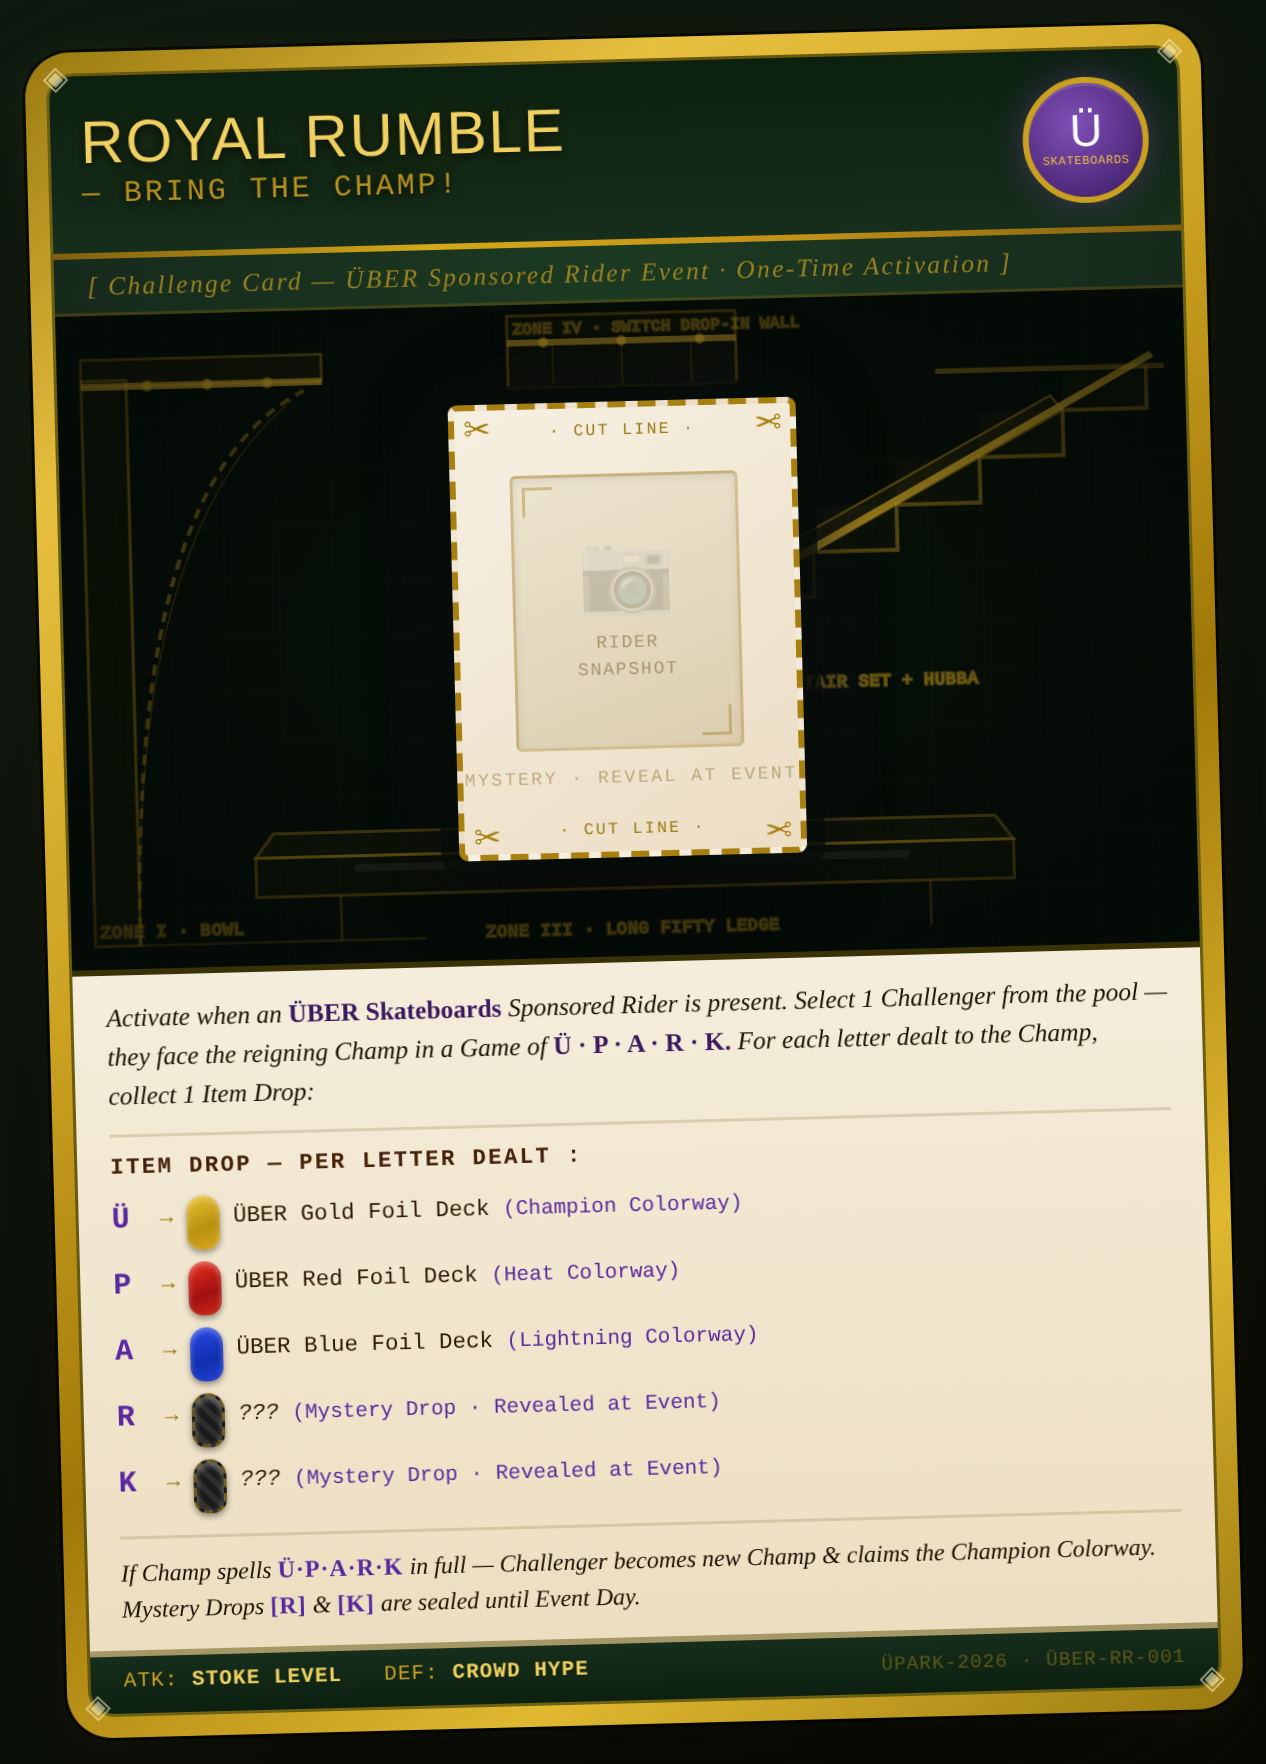
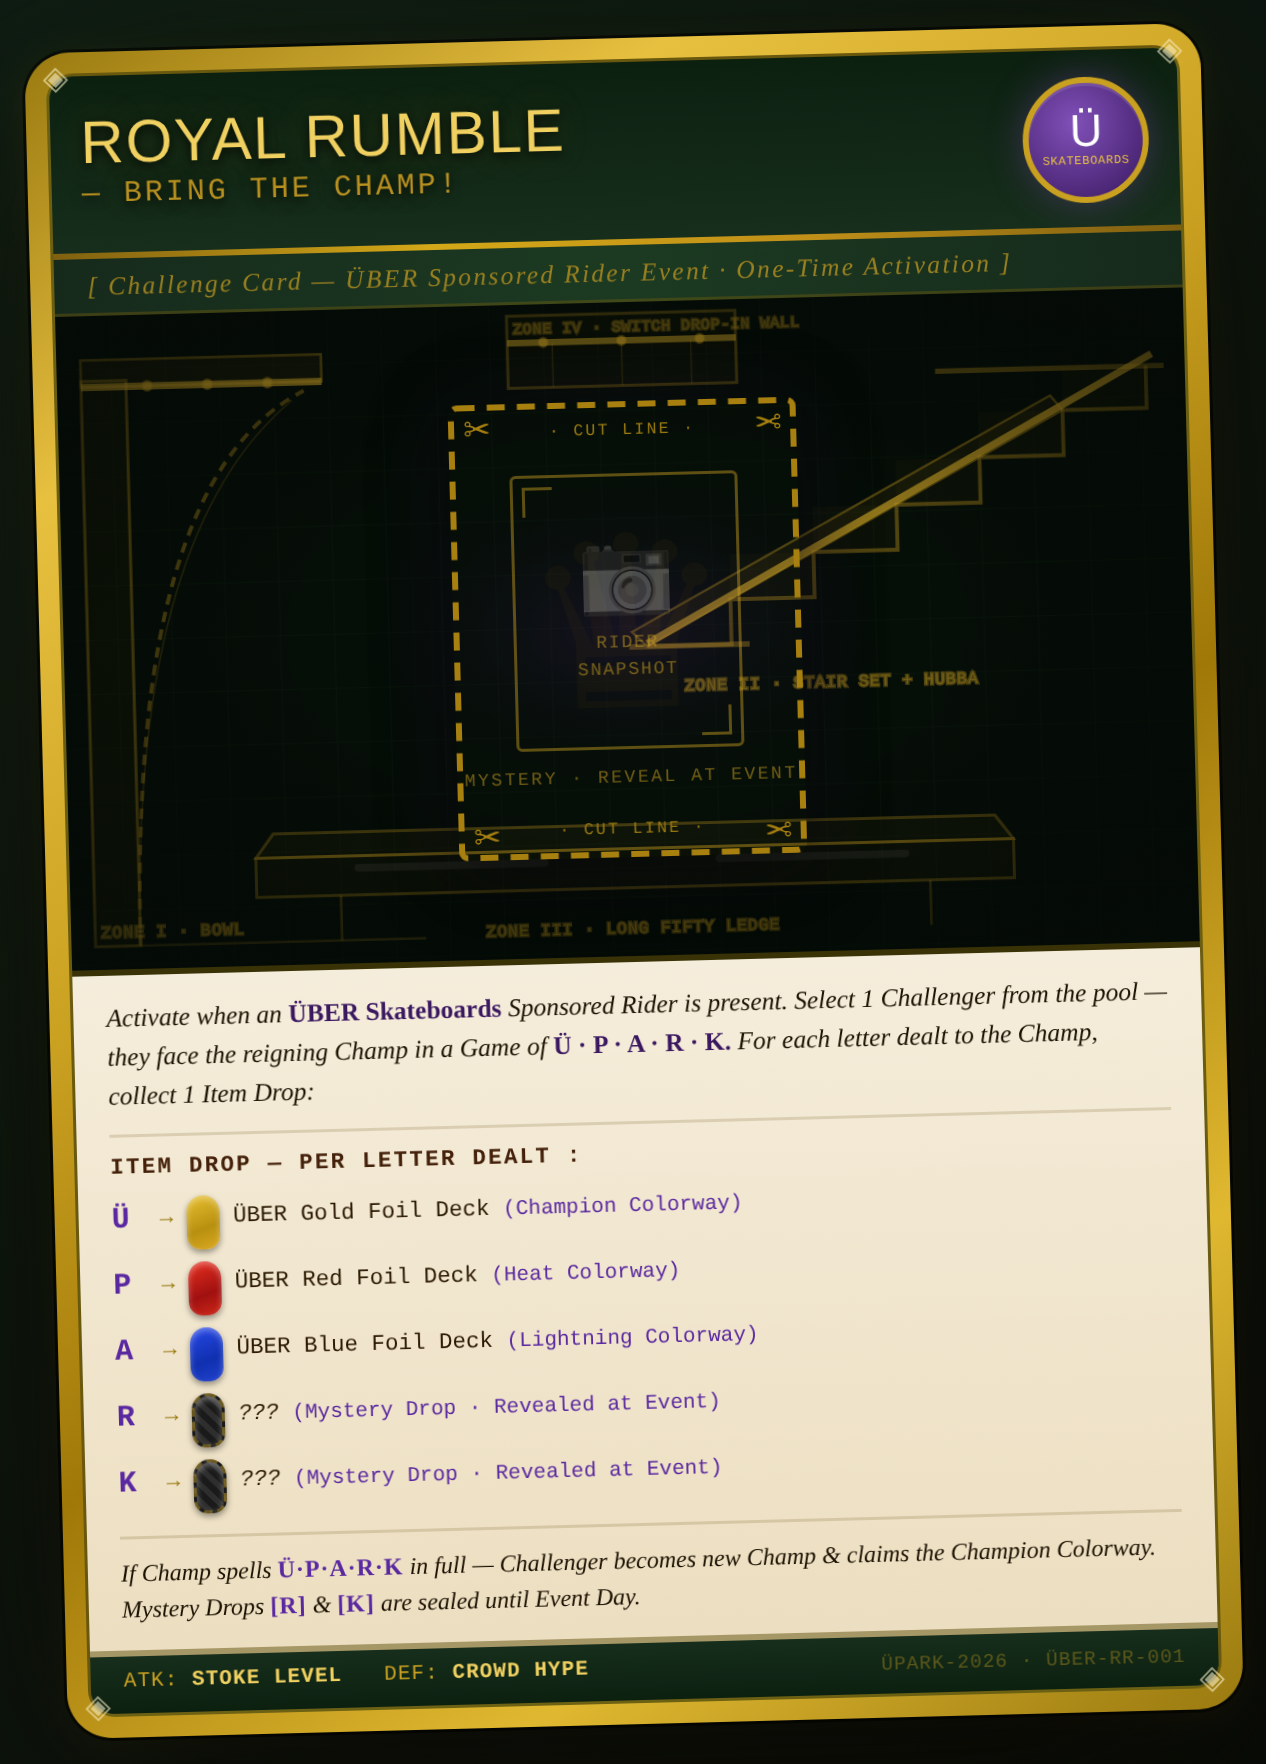
Make cutout frame transparent — park SVG shows through rider slot
Cutout box and photo frame backgrounds set to transparent.
Text/border colors updated to gold so they read on the dark blueprint.
Both PNG exports regenerated.

Changed region(s): [[0.3389, 0.2183, 0.6469, 0.4989]]

diff --git a/cards/royal-rumble.html b/cards/royal-rumble.html
@@ -178,7 +178,7 @@ body {
   height: 152px;
   border: 2px dashed #a88010;
   border-radius: 3px;
-  background: linear-gradient(145deg, #f6f0e2 0%, #ecddc4 100%);
+  background: transparent;
   display: flex;
   flex-direction: column;
   align-items: center;
@@ -187,9 +187,8 @@ body {
   overflow: hidden;
   z-index: 2;
   box-shadow:
-    0 0 0 6px rgba(6,14,8,0.75),
-    0 6px 24px rgba(0,0,0,0.8),
-    0 0 32px rgba(80,40,120,0.18);
+    0 6px 24px rgba(0,0,0,0.5),
+    0 0 32px rgba(80,40,120,0.12);
 }
 
 /* Crown watermark */
@@ -233,15 +232,14 @@ body {
 .photo-frame {
   width: 76px;
   height: 92px;
-  border: 1px solid rgba(150,110,8,0.3);
-  background: linear-gradient(160deg, #ede4cf 0%, #dccfb0 100%);
+  border: 1px solid rgba(201,160,32,0.45);
+  background: transparent;
   display: flex;
   flex-direction: column;
   align-items: center;
   justify-content: center;
   gap: 5px;
   border-radius: 2px;
-  box-shadow: inset 0 1px 3px rgba(0,0,0,0.08);
   position: relative;
   z-index: 1;
 }
@@ -249,17 +247,17 @@ body {
   content: "";
   position: absolute;
   width: 10px; height: 10px;
-  border-color: rgba(150,110,8,0.35);
+  border-color: rgba(201,160,32,0.45);
   border-style: solid;
 }
 .photo-frame::before { top: 3px; left: 3px; border-width: 1.5px 0 0 1.5px; }
 .photo-frame::after  { bottom: 3px; right: 3px; border-width: 0 1.5px 1.5px 0; }
 
-.photo-icon { font-size: 26px; opacity: 0.16; line-height: 1; }
+.photo-icon { font-size: 26px; opacity: 0.25; line-height: 1; filter: invert(1) sepia(1) saturate(0.3); }
 .photo-text {
   font-family: 'Courier New', monospace;
   font-size: 6px;
-  color: rgba(80,55,0,0.42);
+  color: rgba(201,160,32,0.55);
   text-align: center;
   letter-spacing: 0.1em;
   text-transform: uppercase;
@@ -269,7 +267,7 @@ body {
 .reveal-tag {
   font-family: 'Courier New', monospace;
   font-size: 6px;
-  color: rgba(110,80,0,0.4);
+  color: rgba(201,160,32,0.55);
   letter-spacing: 0.14em;
   text-transform: uppercase;
   z-index: 1;
